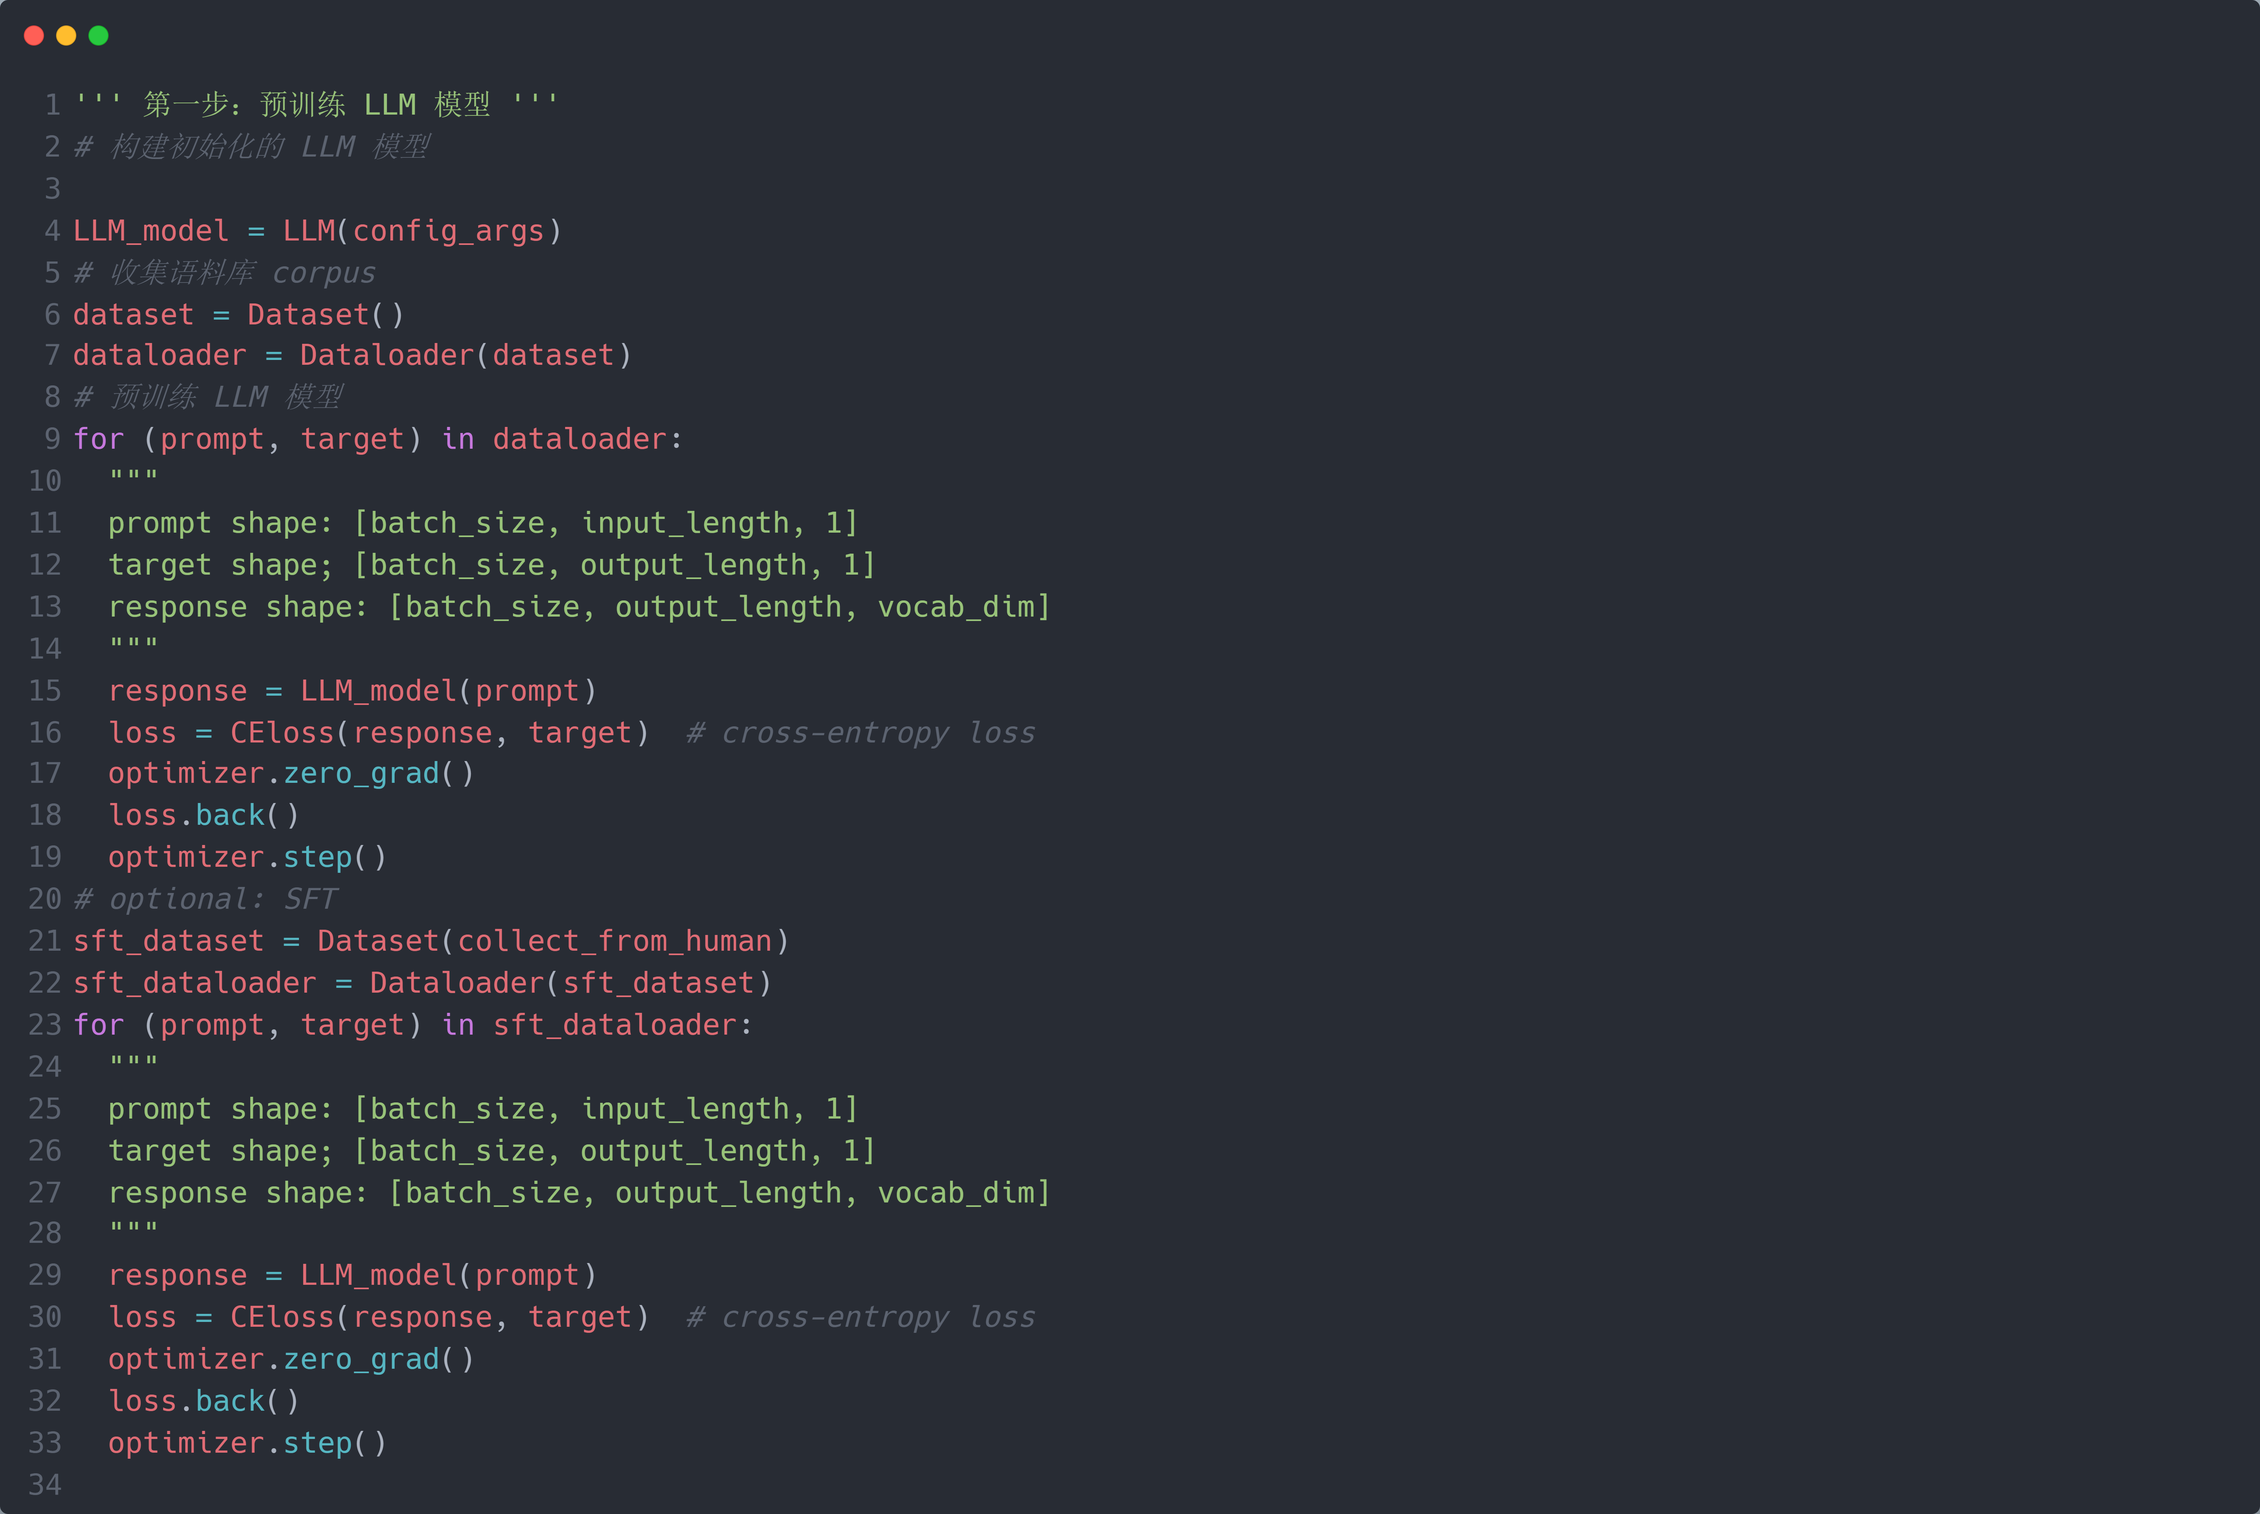
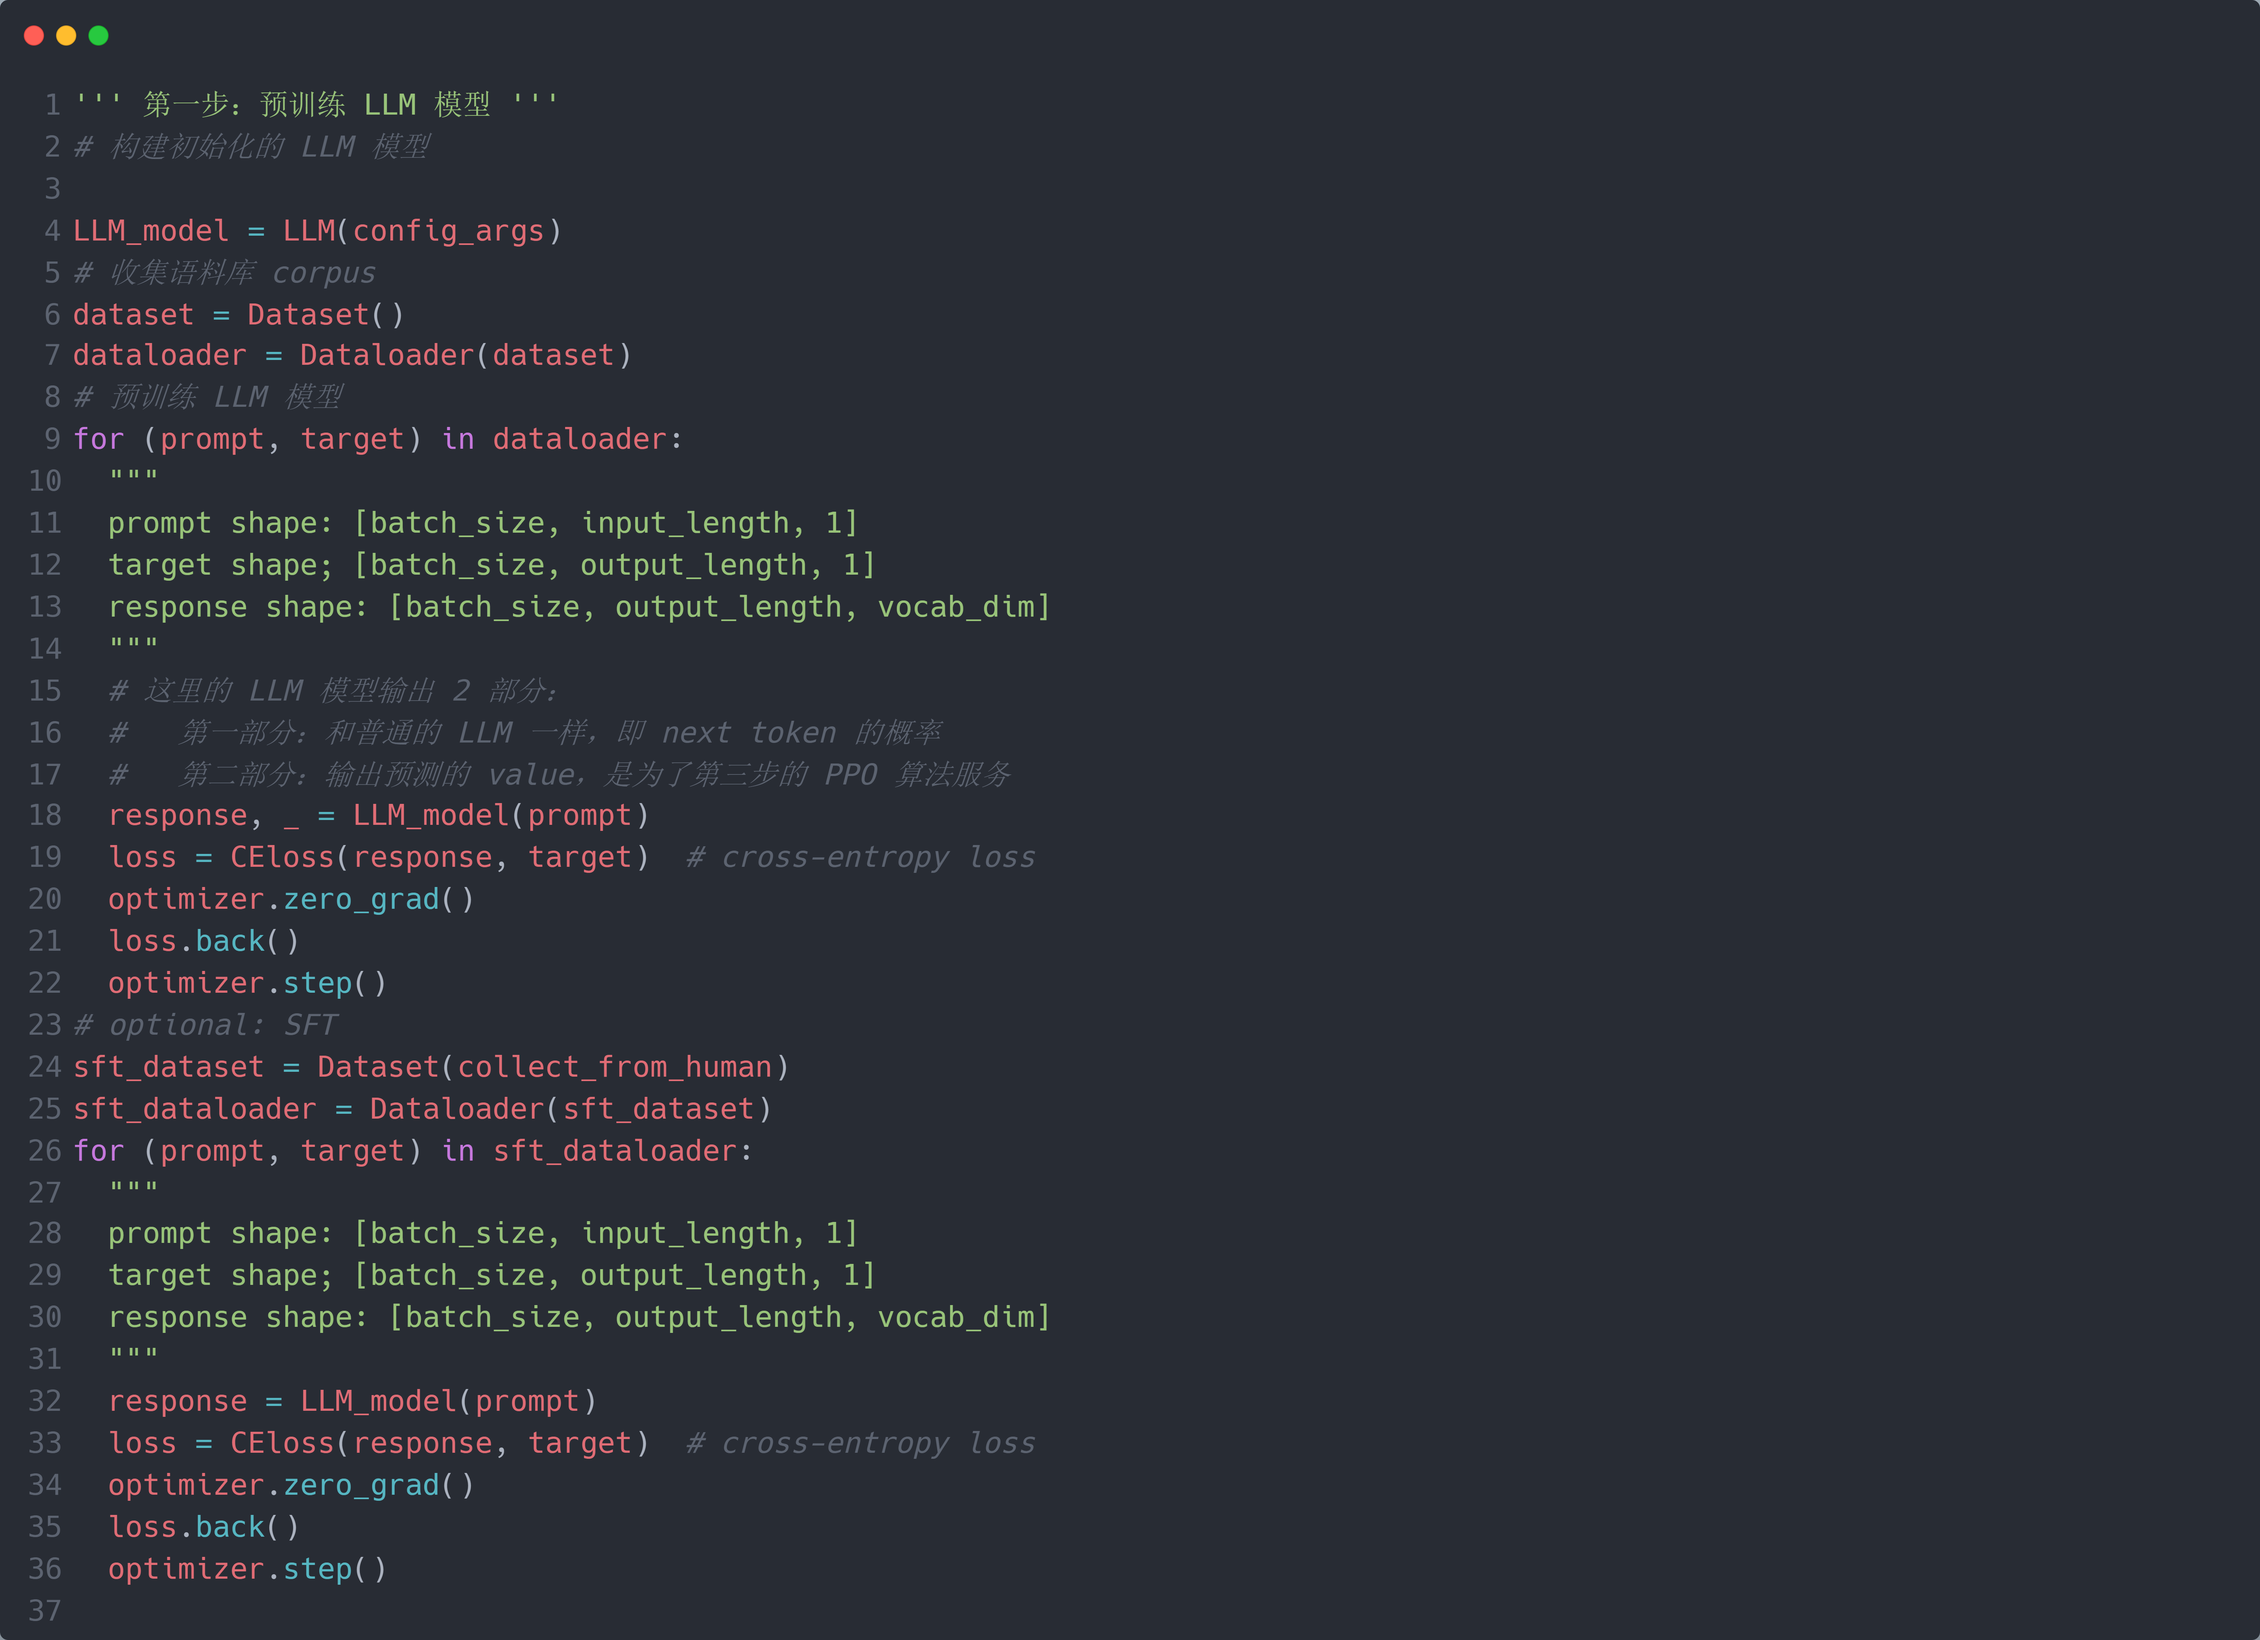
update the blog RLHF

Changed region(s): [[0.0, 0.0624, 0.4688, 0.9667], [0.3438, 0.8731, 0.4375, 0.9043]]

diff --git a/files/RLHF.py b/files/RLHF.py
@@ -1,7 +1,5 @@
 ''' 第一步：预训练 LLM 模型 '''
 # 构建初始化的 LLM 模型
-from altair import value
-
 
 LLM_model = LLM(config_args)
 # 收集语料库 corpus
@@ -14,7 +12,10 @@ for (prompt, target) in dataloader:
   target shape; [batch_size, output_length, 1]
   response shape: [batch_size, output_length, vocab_dim]
   """
-  response = LLM_model(prompt)
+  # 这里的 LLM 模型输出 2 部分：
+  #   第一部分：和普通的 LLM 一样，即 next token 的概率
+  #   第二部分：输出预测的 value，是为了第三步的 PPO 算法服务
+  response, _ = LLM_model(prompt)
   loss = CEloss(response, target)  # cross-entropy loss
   optimizer.zero_grad()
   loss.back()
